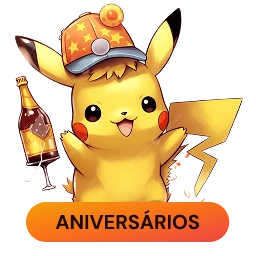
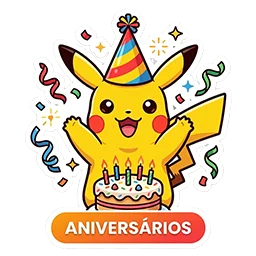
feat(club): selos novos das frentes do Club e selo ilustrado do Feed
Agenda, Amigo Secreto, Aniversariantes e Avisos com a arte nova do Du (256 px, webp); o Feed ganha selo proprio (SELOS.feed) no cartao da casa no lugar do icone.

diff --git a/src/app/pokecreatorsclub/CasaClub.tsx b/src/app/pokecreatorsclub/CasaClub.tsx
@@ -346,6 +346,7 @@ const SELO_AMIGO_SECRETO = SELOS['amigo-secreto']
 const SELO_ANIVERSARIANTES = SELOS.aniversariantes
 const SELO_AGENDA = SELOS.agenda
 const SELO_AVISOS = SELOS.avisos
+const SELO_FEED = SELOS.feed
 // Cartas ilustradas do leque do hero (06/11), proporcao 2:3.
 const CARTA_AMIGO_SECRETO = '/pokecreatorsclub/carta-amigo-secreto.webp'
 const CARTA_ANIVERSARIANTES = '/pokecreatorsclub/carta-aniversariantes.webp'
@@ -407,8 +408,7 @@ function CartaoAvisos({ logado, lista, visto }: { logado: boolean; lista: Aviso[
   )
 }
 
-// Feed do Club (26/11/2026, wireframe v3 quadro 01). Sem selo ilustrado ainda: o quadrado com icone
-// da casa. A linha nunca vira numero de pendencia: so diz se tem post novo para a pessoa.
+// Feed do Club (26/11/2026, wireframe v3 quadro 01; selo ilustrado do Du em 27/11). A linha nunca vira numero de pendencia: so diz se tem post novo para a pessoa.
 function CartaoFeed({ logado, membro }: { logado: boolean; membro: boolean }) {
   const [novo, setNovo] = useState<boolean | null>(null)
   useEffect(() => {
@@ -425,7 +425,7 @@ function CartaoFeed({ logado, membro }: { logado: boolean; membro: boolean }) {
   return (
     <section className="as-card cl-frente">
       <div className="cl-frente-g">
-        <span className="cl-selo as-selo-ico" aria-hidden="true"><Ico n="trend" s={40} /></span>
+        <Selo src={SELO_FEED} />
         <div className="cl-frente-tx">
           <h2 className="as-h3">Feed do Club</h2>
           <p className="as-meta">{linha}</p>

diff --git a/src/app/pokecreatorsclub/amigo-secreto/estilo.tsx b/src/app/pokecreatorsclub/amigo-secreto/estilo.tsx
@@ -100,6 +100,7 @@ export const SELOS = {
   aniversariantes: '/pokecreatorsclub/selo-aniversariantes.webp',
   agenda: '/pokecreatorsclub/selo-agenda.webp',
   avisos: '/pokecreatorsclub/selo-avisos.webp',
+  feed: '/pokecreatorsclub/selo-feed.webp',
 } as const satisfies Record<string, string | null>
 
 export function SeloFrente({ frente, className = '' }: { frente: keyof typeof SELOS; className?: string }) {
